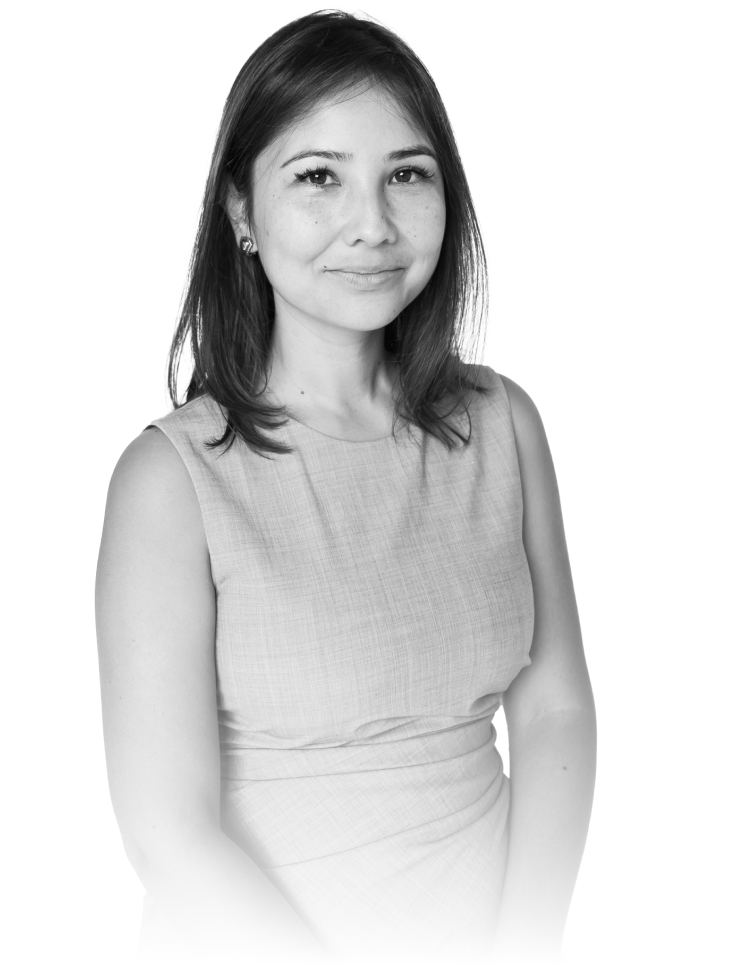
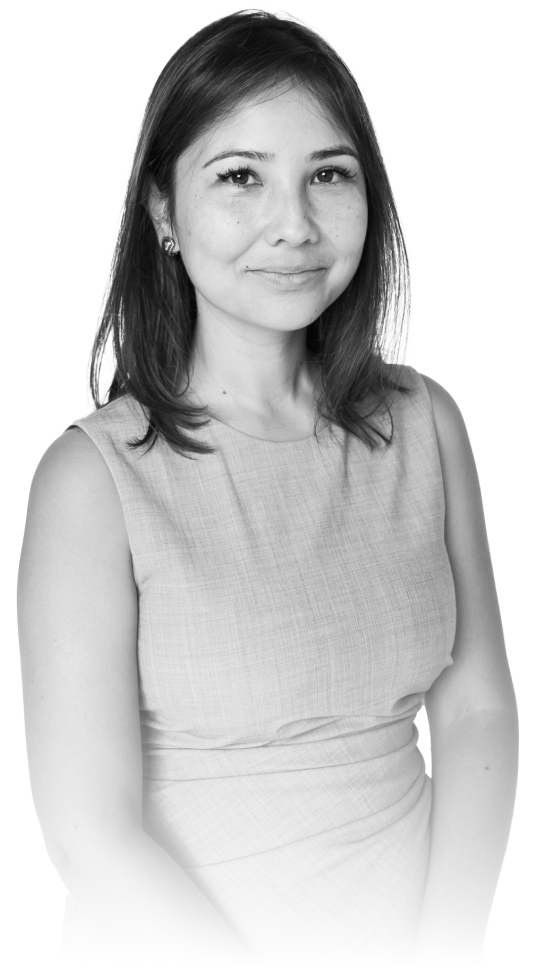
code-merge-milad

Changed region(s): [[0.0307, 0.0, 0.953, 0.9231], [0.3382, 0.8615, 0.3689, 0.8923]]

diff --git a/Bio.html b/Bio.html
@@ -9,12 +9,15 @@
         integrity="sha384-QWTKZyjpPEjISv5WaRU9OFeRpok6YctnYmDr5pNlyT2bRjXh0JMhjY6hW+ALEwIH" crossorigin="anonymous" />
     <link rel="stylesheet" href="./assets/scss/bio.css" />
     <link rel="stylesheet" href="./assets/scss/root.css" />
+    <link rel="stylesheet" href="./assets/scss/milad.css" />
+    <link rel="stylesheet" href="./assets/scss/style.css" />
+    <link rel="stylesheet" href="/assets/scss/slider.css" />
     <title>footer</title>
 </head>
 
 <body>
     <section class="bg-black">
-        <div class="container main-container p-0">
+        <div class="container main-container ps-0 pe-0">
             <div class="row m-0 p-0">
                 <div class="col-lg-2">
                     <div class="row m-0 position-relative p-0">
@@ -137,8 +140,8 @@
                                     </p>
                                 </div>
                             </div>
-                            <div class="col-xl-7 col-sm-6 d-sm-none d-block">
-                                <div class="col-sm-12 col-10 ms-md-0 ms-auto justify-content-end d-flex d-xl-none ">
+                            <div class="col-xl-7 col-sm-6 d-sm-none d-block pe-0">
+                                <div class="col-sm-12 col-10 ms-md-0 ms-auto justify-content-end d-flex d-xl-none pe-0">
                                     <img src="./assets/images/bio/co-founder-1.png" class="w-100" />
                                 </div>
                             </div>
@@ -153,14 +156,14 @@
     </section>
     <section class=" mt-sm-5">
         <div class="container main-container p-0">
-            <div class="row m-0 p-0 position-relative">
-                <div class="d-none d-xl-block col-xl-6">
+            <div class="row m-0 p-0 position-relative justify-content-between">
+                <div class="d-none d-sm-block col-sm-7 col-lg-5">
                     <img src="./assets/images/bio/co-founder-2.png" class="w-100 position-sticky top-0 end-0" />
                 </div>
-                <div class=" col-xl-6">
+                <div class=" col-sm-5 col-lg-6">
                     <div
                         class="content py-sm-5 pb-3 subject d-flex flex-column justify-content-center align-items-center justify-content-xl-start align-items-xl-start">
-                        <div class="row m-0 p-0 position-relative">
+                        <div class="row m-0 p-sm-0 pt-5 position-relative">
                             <h2 class="letter-0-3 text-black mb-0 fw-bold mt-3 line-height-h2 fs_5xl">
                                 Cheryl<br />
                                 Friedlander
@@ -208,62 +211,253 @@
                                 </a>
                             </div>
                         </div>
-                        <div class="d-block d-xl-none col-12 col-md-8 col-xl-7">
+                        <div class="d-block d-sm-none col-8 col-md-8 col-xl-7">
                             <img src="./assets/images/bio/co-founder-2.png" class="w-100 " />
                         </div>
-                        <div class="px-sm-0 text-start max_pra_content_Two text-justify">
-                            <p class="font-500 text-black letter-01 fs_sm text_normal font-opacity mt-4">
-                                For over a decade, Cheryl has represented a wide variety of clients in transactional
-                                matters, from individuals and small
-                                businesses to domestic and multi-national billion-dollar companies, start-ups, tech
-                                companies, lenders, and real estate
-                                developers of all sizes. She has extensive corporate structuring experience and assists
-                                her clients at every stage of
-                                the process, on both the business and legal fronts. Cheryl has also served as general
-                                counsel to several New York City
-                                real estate developers, assisting them in identifying potential investments, obtaining
-                                lending (including finding
-                                creative financing solutions), reviewing and preparing all the necessary documents, and
-                                providing advice on an on-going
-                                basis. She prides herself on providing responsive, prompt, and real-time counseling
-                                throughout the deal process to bring
-                                each transaction to a successful close.
+                        <div class="overflow-y-auto">
+                            <div class="px-sm-0 text-start max_pra_content_Two text-justify news_para_max_height">
+                                <p class="font-500 text-black letter-01 fs_sm text_normal font-opacity mt-4">
+                                    For over a decade, Cheryl has represented a wide variety of clients in transactional
+                                    matters, from individuals and small
+                                    businesses to domestic and multi-national billion-dollar companies, start-ups, tech
+                                    companies, lenders, and real estate
+                                    developers of all sizes. She has extensive corporate structuring experience and
+                                    assists
+                                    her clients at every stage of
+                                    the process, on both the business and legal fronts. Cheryl has also served as
+                                    general
+                                    counsel to several New York City
+                                    real estate developers, assisting them in identifying potential investments,
+                                    obtaining
+                                    lending (including finding
+                                    creative financing solutions), reviewing and preparing all the necessary documents,
+                                    and
+                                    providing advice on an on-going
+                                    basis. She prides herself on providing responsive, prompt, and real-time counseling
+                                    throughout the deal process to bring
+                                    each transaction to a successful close.
 
-                            </p>
-                            <p class="font-500 text-black letter-01 fs_sm font-opacity mt-4 text_normal">
-                                Cheryl has worked and trained with top-tier transactional attorneys in New York City and
-                                has experience drafting and
-                                negotiating the simplest to most complex agreements, including contracts of sale,
-                                leases, joint venture agreements,
-                                partnership agreements, operating agreements, asset/stock/ membership interest purchase
-                                agreements, license agreements,
-                                employment agreements and private placement offerings. Cheryl has also closed commercial
-                                transactions all over the
-                                country and hundreds of residential transactions throughout the Hudson Valley and New
-                                York City metropolitan area,
-                                including single-family homes, co-operatives, and condominiums.
+                                </p>
+                                <p class="font-500 text-black letter-01 fs_sm font-opacity mt-4 text_normal">
+                                    Cheryl has worked and trained with top-tier transactional attorneys in New York City
+                                    and
+                                    has experience drafting and
+                                    negotiating the simplest to most complex agreements, including contracts of sale,
+                                    leases, joint venture agreements,
+                                    partnership agreements, operating agreements, asset/stock/ membership interest
+                                    purchase
+                                    agreements, license agreements,
+                                    employment agreements and private placement offerings. Cheryl has also closed
+                                    commercial
+                                    transactions all over the
+                                    country and hundreds of residential transactions throughout the Hudson Valley and
+                                    New
+                                    York City metropolitan area,
+                                    including single-family homes, co-operatives, and condominiums.
 
-                            </p>
-                            <p class="font-500 text-black letter-01 fs_sm font-opacity mt-4 text_normal">
-                                Prior to starting Boddoohi & Friedlander, Cheryl worked at an elite New York City
-                                boutique transactional firm and before
-                                that, a local real estate firm in Rockland County. She is licensed to practice in New
-                                York.
+                                </p>
+                                <p class="font-500 text-black letter-01 fs_sm font-opacity mt-4 text_normal">
+                                    Prior to starting Boddoohi & Friedlander, Cheryl worked at an elite New York City
+                                    boutique transactional firm and before
+                                    that, a local real estate firm in Rockland County. She is licensed to practice in
+                                    New
+                                    York.
 
-                            </p>
-                            <p class="font-500 text-black letter-01 fs_sm font-opacity mt-4 mb-5 text_normal">
-                                Cheryl received her law degree from the University of Miami School of Law in 2010 and
-                                her undergraduate degree in
-                                financial accounting from North Carolina State University in 2007, graduating magna cum
-                                laude.
+                                </p>
+                                <p class="font-500 text-black letter-01 fs_sm font-opacity mt-4 mb-5 text_normal">
+                                    Cheryl received her law degree from the University of Miami School of Law in 2010
+                                    and
+                                    her undergraduate degree in
+                                    financial accounting from North Carolina State University in 2007, graduating magna
+                                    cum
+                                    laude.
 
-                            </p>
+                                </p>
+                            </div>
                         </div>
                     </div>
                 </div>
             </div>
         </div>
     </section>
+    <!-- anything section  -->
+    <div class="bg-black anything_section position-relative">
+        <div class="anything_container mx-auto py-5 px-lg-0 px-4">
+            <div class="row py-4 my-3 align-items-center">
+                <div class="col-md-6">
+                    <div data-aos="fade-down" data-aos-duration="1000">
+                        <h3 class="letter_0-3 text-white fw-bold lh_100 fs_2xl mb-0 anything_heading">
+                            Anything you need, we are here.
+                        </h3>
+                        <p class="text-white anything_second_para opacity_07 fw-normal lh_100 fs_sm mt-4">
+                            Please reach out to us via phone, email, text, or the form here
+                            if you have any questions for us.
+                        </p>
+                        <div class="my-3">
+                            <p class="text-white fs_sm lh_100 fw-normal mb-3">
+                                Boddoohi &amp; Friedlander LLP
+                            </p>
+                            <a href="https://goo.gl/maps/MhVbDPtmKzWAweFJ6" target="_blank" rel="noopener noreferrer"
+                                class="text-white fs_sm fw-normal anything_link_text_hover transition_03">
+                                <span class="d-block"> New York City Office:</span>
+                                <span class="d-block"> 110 East 25th Street</span>
+                                <span class="d-block"> New York, New York 10010</span>
+                            </a>
+                            <a href="https://maps.app.goo.gl/YNKQEtyfB5RiSHks6" target="_blank"
+                                rel="noopener noreferrer"
+                                class="text-white fs_sm fw-normal mt-3 d-block anything_link_text_hover transition_03">
+                                <span class="d-block"> Hudson Valley Office:</span>
+                                <span class="d-block"> 291 Wall Street, 4th Floor</span>
+                                <span class="d-block"> Kingston, New York 12401</span>
+                            </a>
+                        </div>
+                        <p
+                            class="text-white fs_sm fw-normal mb-0 fw-normal lh_160 anything_link_text_hover transition_03">
+                            Call or Text Us:
+                        </p>
+                        <a href="tel:+(347) 252 9922">
+                            <p
+                                class="text-white fs_sm fw-normal mb-0 fw-normal lh_160 anything_link_text_hover transition_03">
+                                (347) 252 9922
+                            </p>
+                        </a>
+                        <a href="mailto:hello@thebflawfirm.com">
+                            <p class="text-white fw-normal lh_160 fs_sm mb-0 anything_link_text_hover transition_03">
+                                hello@thebflawfirm.com
+                            </p>
+                        </a>
+                    </div>
+                </div>
+                <div class="col-md-6">
+                    <form onsubmit="handleSubmit(event)" class="pt-md-0 pt-5">
+                        <div class="w-100">
+                            <input type="text" required="" class="contact_form" id="contact-form-name"
+                                placeholder="Your Name" />
+                        </div>
+                        <div class="mt-3 pt-1">
+                            <input type="email" required="" class="contact_form" id="contact-form-email"
+                                placeholder="Email" />
+                        </div>
+                        <div class="mt-3 pt-1">
+                            <input type="number" class="contact_form" required="" id="contact-form-number"
+                                placeholder="Phone Number" />
+                        </div>
+                        <div class="mt-3 pt-1">
+                            <textarea class="contact_form" required="" placeholder="How can we help?"
+                                id="contact-form-message" rows="3"></textarea>
+                        </div>
+                        <div class="mt-3 pt-1">
+                            <button type="submit" class="w-100 contact_form_btn" id="send-message-btn">
+                                Submit message
+                            </button>
+                        </div>
+                    </form>
+                </div>
+            </div>
+        </div>
+    </div>
+    <!-- footer section  -->
+    <footer class="bg-black">
+        <div class="row position-relative max_w_1440" data-aos="fade-down" data-aos-duration="1000">
+            <div class="image_col p-sm-0">
+                <img src="./assets/images/icons/footer-img.svg" alt="footer image"
+                    class="d-sm-block d-none pointer_event_none" />
+            </div>
+            <div class="footer_link_col mt-sm-5 pb-sm-0 pb-5 padding_xl_footer_col">
+                <div class="mt-sm-5 pt-sm-5">
+                    <div class="d-flex justify-content-center justify-content-md-start">
+                        <div>
+                            <a href="#"><img class="footer_logo" src="./assets/images/icons/logo.svg" alt="logo" /></a>
+                            <div class="social_icons_margin d-flex d-md-none justify-content-center mt-md-0 mt-4">
+                                <a class="pe-3" href="https://www.facebook.com/thebflawfirm" target="_blank"
+                                    rel="noopener noreferrer">
+                                    <svg class="" width="24" height="24" viewBox="0 0 24 24" fill="none"
+                                        xmlns="http://www.w3.org/2000/svg">
+                                        <path
+                                            d="M24 12C24 5.37258 18.6274 0 12 0C5.37258 0 0 5.37258 0 12C0 17.9895 4.3882 22.954 10.125 23.8542V15.4688H7.07812V12H10.125V9.35625C10.125 6.34875 11.9166 4.6875 14.6576 4.6875C15.9701 4.6875 17.3438 4.92188 17.3438 4.92188V7.875H15.8306C14.34 7.875 13.875 8.80008 13.875 9.75V12H17.2031L16.6711 15.4688H13.875V23.8542C19.6118 22.954 24 17.9895 24 12Z"
+                                            fill="#FE6A5B"></path>
+                                    </svg>
+                                </a>
+
+                                <a href="https://www.instagram.com/thebflawfirm/" target="_blank"
+                                    rel="noopener noreferrer">
+                                    <svg width="24" height="24" viewBox="0 0 24 24" fill="none"
+                                        xmlns="http://www.w3.org/2000/svg">
+                                        <path class="transition_03s"
+                                            d="M12 2.16094C15.2063 2.16094 15.5859 2.175 16.8469 2.23125C18.0188 2.28281 18.6516 2.47969 19.0734 2.64375C19.6313 2.85938 20.0344 3.12188 20.4516 3.53906C20.8734 3.96094 21.1313 4.35938 21.3469 4.91719C21.5109 5.33906 21.7078 5.97656 21.7594 7.14375C21.8156 8.40937 21.8297 8.78906 21.8297 11.9906C21.8297 15.1969 21.8156 15.5766 21.7594 16.8375C21.7078 18.0094 21.5109 18.6422 21.3469 19.0641C21.1313 19.6219 20.8687 20.025 20.4516 20.4422C20.0297 20.8641 19.6313 21.1219 19.0734 21.3375C18.6516 21.5016 18.0141 21.6984 16.8469 21.75C15.5813 21.8062 15.2016 21.8203 12 21.8203C8.79375 21.8203 8.41406 21.8062 7.15313 21.75C5.98125 21.6984 5.34844 21.5016 4.92656 21.3375C4.36875 21.1219 3.96563 20.8594 3.54844 20.4422C3.12656 20.0203 2.86875 19.6219 2.65313 19.0641C2.48906 18.6422 2.29219 18.0047 2.24063 16.8375C2.18438 15.5719 2.17031 15.1922 2.17031 11.9906C2.17031 8.78438 2.18438 8.40469 2.24063 7.14375C2.29219 5.97187 2.48906 5.33906 2.65313 4.91719C2.86875 4.35938 3.13125 3.95625 3.54844 3.53906C3.97031 3.11719 4.36875 2.85938 4.92656 2.64375C5.34844 2.47969 5.98594 2.28281 7.15313 2.23125C8.41406 2.175 8.79375 2.16094 12 2.16094ZM12 0C8.74219 0 8.33438 0.0140625 7.05469 0.0703125C5.77969 0.126563 4.90313 0.332812 4.14375 0.628125C3.35156 0.9375 2.68125 1.34531 2.01563 2.01562C1.34531 2.68125 0.9375 3.35156 0.628125 4.13906C0.332812 4.90313 0.126563 5.775 0.0703125 7.05C0.0140625 8.33437 0 8.74219 0 12C0 15.2578 0.0140625 15.6656 0.0703125 16.9453C0.126563 18.2203 0.332812 19.0969 0.628125 19.8563C0.9375 20.6484 1.34531 21.3188 2.01563 21.9844C2.68125 22.65 3.35156 23.0625 4.13906 23.3672C4.90313 23.6625 5.775 23.8687 7.05 23.925C8.32969 23.9812 8.7375 23.9953 11.9953 23.9953C15.2531 23.9953 15.6609 23.9812 16.9406 23.925C18.2156 23.8687 19.0922 23.6625 19.8516 23.3672C20.6391 23.0625 21.3094 22.65 21.975 21.9844C22.6406 21.3188 23.0531 20.6484 23.3578 19.8609C23.6531 19.0969 23.8594 18.225 23.9156 16.95C23.9719 15.6703 23.9859 15.2625 23.9859 12.0047C23.9859 8.74688 23.9719 8.33906 23.9156 7.05938C23.8594 5.78438 23.6531 4.90781 23.3578 4.14844C23.0625 3.35156 22.6547 2.68125 21.9844 2.01562C21.3188 1.35 20.6484 0.9375 19.8609 0.632812C19.0969 0.3375 18.225 0.13125 16.95 0.075C15.6656 0.0140625 15.2578 0 12 0Z"
+                                            fill="#FE6A5B"></path>
+                                        <path
+                                            d="M12 5.83594C8.59688 5.83594 5.83594 8.59688 5.83594 12C5.83594 15.4031 8.59688 18.1641 12 18.1641C15.4031 18.1641 18.1641 15.4031 18.1641 12C18.1641 8.59688 15.4031 5.83594 12 5.83594ZM12 15.9984C9.79219 15.9984 8.00156 14.2078 8.00156 12C8.00156 9.79219 9.79219 8.00156 12 8.00156C14.2078 8.00156 15.9984 9.79219 15.9984 12C15.9984 14.2078 14.2078 15.9984 12 15.9984Z"
+                                            fill="#FE6A5B"></path>
+                                        <path
+                                            d="M19.8469 5.59238C19.8469 6.38926 19.2 7.03145 18.4078 7.03145C17.6109 7.03145 16.9688 6.38457 16.9688 5.59238C16.9688 4.79551 17.6156 4.15332 18.4078 4.15332C19.2 4.15332 19.8469 4.8002 19.8469 5.59238Z"
+                                            fill="#FE6A5B"></path>
+                                    </svg>
+                                </a>
+                            </div>
+                        </div>
+                    </div>
+                    <hr class="footer_gray_hr bg-white w-100 my-4 mt-md-5" />
+                    <div class="d-flex mt-2 item-center justify-content-center justify-content-md-start">
+                        <div
+                            class="d-flex flex-sm-row flex-column justify-content-center justify-content-sm-start align-items-center gap-sm-0 gap-2">
+                            <a class="fs_sm fw-semibold text-white footer_links_hover transition_03" href="#">Back to
+                                Top</a>
+                            <a href="#"
+                                class="ms-sm-5 fs_sm fw-semibold text-white footer_links_hover transition_03">Practice
+                                Areas</a>
+                            <a href="#"
+                                class="ms-sm-5 fs_sm fw-semibold text-white footer_links_hover transition_03">News</a>
+                            <a href="#"
+                                class="ms-sm-5 fs_sm fw-semibold text-white footer_links_hover transition_03">Team</a>
+                            <a href="#"
+                                class="ms-sm-5 fs_sm fw-semibold text-white footer_links_hover transition_03">Contact</a>
+                        </div>
+                        <div class="social_icons_margin d-md-flex d-none mt-sm-0 mt-4">
+                            <a class="pe-3" href="https://www.facebook.com/thebflawfirm" target="_blank"
+                                rel="noopener noreferrer">
+                                <svg class="" width="24" height="24" viewBox="0 0 24 24" fill="none"
+                                    xmlns="http://www.w3.org/2000/svg">
+                                    <path
+                                        d="M24 12C24 5.37258 18.6274 0 12 0C5.37258 0 0 5.37258 0 12C0 17.9895 4.3882 22.954 10.125 23.8542V15.4688H7.07812V12H10.125V9.35625C10.125 6.34875 11.9166 4.6875 14.6576 4.6875C15.9701 4.6875 17.3438 4.92188 17.3438 4.92188V7.875H15.8306C14.34 7.875 13.875 8.80008 13.875 9.75V12H17.2031L16.6711 15.4688H13.875V23.8542C19.6118 22.954 24 17.9895 24 12Z"
+                                        fill="#FE6A5B"></path>
+                                </svg>
+                            </a>
+
+                            <a href="https://www.instagram.com/thebflawfirm/" target="_blank" rel="noopener noreferrer">
+                                <svg width="24" height="24" viewBox="0 0 24 24" fill="none"
+                                    xmlns="http://www.w3.org/2000/svg">
+                                    <path class="transition_03s"
+                                        d="M12 2.16094C15.2063 2.16094 15.5859 2.175 16.8469 2.23125C18.0188 2.28281 18.6516 2.47969 19.0734 2.64375C19.6313 2.85938 20.0344 3.12188 20.4516 3.53906C20.8734 3.96094 21.1313 4.35938 21.3469 4.91719C21.5109 5.33906 21.7078 5.97656 21.7594 7.14375C21.8156 8.40937 21.8297 8.78906 21.8297 11.9906C21.8297 15.1969 21.8156 15.5766 21.7594 16.8375C21.7078 18.0094 21.5109 18.6422 21.3469 19.0641C21.1313 19.6219 20.8687 20.025 20.4516 20.4422C20.0297 20.8641 19.6313 21.1219 19.0734 21.3375C18.6516 21.5016 18.0141 21.6984 16.8469 21.75C15.5813 21.8062 15.2016 21.8203 12 21.8203C8.79375 21.8203 8.41406 21.8062 7.15313 21.75C5.98125 21.6984 5.34844 21.5016 4.92656 21.3375C4.36875 21.1219 3.96563 20.8594 3.54844 20.4422C3.12656 20.0203 2.86875 19.6219 2.65313 19.0641C2.48906 18.6422 2.29219 18.0047 2.24063 16.8375C2.18438 15.5719 2.17031 15.1922 2.17031 11.9906C2.17031 8.78438 2.18438 8.40469 2.24063 7.14375C2.29219 5.97187 2.48906 5.33906 2.65313 4.91719C2.86875 4.35938 3.13125 3.95625 3.54844 3.53906C3.97031 3.11719 4.36875 2.85938 4.92656 2.64375C5.34844 2.47969 5.98594 2.28281 7.15313 2.23125C8.41406 2.175 8.79375 2.16094 12 2.16094ZM12 0C8.74219 0 8.33438 0.0140625 7.05469 0.0703125C5.77969 0.126563 4.90313 0.332812 4.14375 0.628125C3.35156 0.9375 2.68125 1.34531 2.01563 2.01562C1.34531 2.68125 0.9375 3.35156 0.628125 4.13906C0.332812 4.90313 0.126563 5.775 0.0703125 7.05C0.0140625 8.33437 0 8.74219 0 12C0 15.2578 0.0140625 15.6656 0.0703125 16.9453C0.126563 18.2203 0.332812 19.0969 0.628125 19.8563C0.9375 20.6484 1.34531 21.3188 2.01563 21.9844C2.68125 22.65 3.35156 23.0625 4.13906 23.3672C4.90313 23.6625 5.775 23.8687 7.05 23.925C8.32969 23.9812 8.7375 23.9953 11.9953 23.9953C15.2531 23.9953 15.6609 23.9812 16.9406 23.925C18.2156 23.8687 19.0922 23.6625 19.8516 23.3672C20.6391 23.0625 21.3094 22.65 21.975 21.9844C22.6406 21.3188 23.0531 20.6484 23.3578 19.8609C23.6531 19.0969 23.8594 18.225 23.9156 16.95C23.9719 15.6703 23.9859 15.2625 23.9859 12.0047C23.9859 8.74688 23.9719 8.33906 23.9156 7.05938C23.8594 5.78438 23.6531 4.90781 23.3578 4.14844C23.0625 3.35156 22.6547 2.68125 21.9844 2.01562C21.3188 1.35 20.6484 0.9375 19.8609 0.632812C19.0969 0.3375 18.225 0.13125 16.95 0.075C15.6656 0.0140625 15.2578 0 12 0Z"
+                                        fill="#FE6A5B"></path>
+                                    <path
+                                        d="M12 5.83594C8.59688 5.83594 5.83594 8.59688 5.83594 12C5.83594 15.4031 8.59688 18.1641 12 18.1641C15.4031 18.1641 18.1641 15.4031 18.1641 12C18.1641 8.59688 15.4031 5.83594 12 5.83594ZM12 15.9984C9.79219 15.9984 8.00156 14.2078 8.00156 12C8.00156 9.79219 9.79219 8.00156 12 8.00156C14.2078 8.00156 15.9984 9.79219 15.9984 12C15.9984 14.2078 14.2078 15.9984 12 15.9984Z"
+                                        fill="#FE6A5B"></path>
+                                    <path
+                                        d="M19.8469 5.59238C19.8469 6.38926 19.2 7.03145 18.4078 7.03145C17.6109 7.03145 16.9688 6.38457 16.9688 5.59238C16.9688 4.79551 17.6156 4.15332 18.4078 4.15332C19.2 4.15332 19.8469 4.8002 19.8469 5.59238Z"
+                                        fill="#FE6A5B"></path>
+                                </svg>
+                            </a>
+                        </div>
+                    </div>
+                    <div
+                        class="d-flex flex-md-row flex-column justify-content-center justify-content-sm-start mt-sm-2 mt-4 pt-3 pt-sm-0 item-center pb-2">
+                        <p class="opacity_05 text-white text-md-start text-center fw-normal fs_xsm lh_100 mb-0">
+                            © Boddoohi &amp; Friedlander LLP 2022.
+                        </p>
+                        <p class="opacity_05 text-white text-md-start text-center my-md-0 my-2 fw-normal fs_xsm lh_100">
+                            All rights reserved.
+                        </p>
+                        <p
+                            class="opacity_05 text-white text-md-start text-center fw-normal fs_xsm lh_100 mb-0 text-center">
+                            &nbsp;Attorney Advertising: Prior results do not guarantee a
+                            similar outcome.
+                        </p>
+                    </div>
+                </div>
+            </div>
+        </div>
+    </footer>
     <script src="https://cdn.jsdelivr.net/npm/bootstrap@5.3.3/dist/js/bootstrap.bundle.min.js"
         integrity="sha384-YvpcrYf0tY3lHB60NNkmXc5s9fDVZLESaAA55NDzOxhy9GkcIdslK1eN7N6jIeHz"
         crossorigin="anonymous"></script>

diff --git a/assets/scss/root.css b/assets/scss/root.css
@@ -1,1 +1,1 @@
-@import"https://fonts.googleapis.com/css2?family=Roboto:ital,wght@0,100;0,300;0,400;0,500;0,700;0,900;1,100;1,300;1,400;1,500;1,700;1,900&display=swap";body,html{font-family:"Roboto",sans-serif !important}:root{--fs-xsm: 13px;--fs-sm: 16px;--fs-md: 21px;--fs-lg: 27px;--fs-xl: 28px;--fs-2xl: 40px;--fs-5xl: 96px;--fs-8xl: 144px;--bittersweet: #fe6a5b;--fw-800: 800}.fs_xsm{font-size:var(--fs-xsm)}.fs_sm{font-size:var(--fs-sm)}.fs_md{font-size:var(--fs-md)}.fs_lg{font-size:var(--fs-lg)}.fs_xl{font-size:var(--fs-xl)}.fs_2xl{font-size:var(--fs-2xl)}.fs_5xl{font-size:var(--fs-5xl)}.fs_8xl{font-size:var(--fs-8xl)}.fw_800{font-weight:var(--fw-800)}.color_bittersweet{color:var(--bittersweet)}.bg_bittersweet{background-color:var(--bittersweet)}@media(max-width: 1199.98px){:root{--fs-xsm: 13px;--fs-sm: 16px;--fs-md: 21px;--fs-lg: 27px;--fs-xl: 28px;--fs-2xl: 40px;--fs-5xl: 80px;--fs-8xl: 100px}}@media(max-width: 1023.98px){:root{--fs-xsm: 13px;--fs-sm: 16px;--fs-md: 21px;--fs-lg: 20px;--fs-xl: 28px;--fs-2xl: 32px;--fs-5xl: 68px;--fs-8xl: 100px}}@media(max-width: 991.98px){:root{--fs-xsm: 13px;--fs-sm: 16px;--fs-md: 18px;--fs-lg: 20px;--fs-xl: 28px;--fs-2xl: 32px;--fs-5xl: 60px;--fs-8xl: 80px}}@media(max-width: 767.98px){:root{--fs-xsm: 13px;--fs-sm: 16px;--fs-md: 18px;--fs-lg: 20px;--fs-xl: 28px;--fs-2xl: 25px;--fs-5xl: 48px;--fs-8xl: 80px}}@media(max-width: 575.9px){:root{--fs-xsm: 13px;--fs-sm: 14px;--fs-md: 18px;--fs-lg: 20px;--fs-xl: 28px;--fs-2xl: 26px;--fs-5xl: 36px;--fs-8xl: 40px}}
+@import"https://fonts.googleapis.com/css2?family=Roboto:ital,wght@0,100;0,300;0,400;0,500;0,700;0,900;1,100;1,300;1,400;1,500;1,700;1,900&display=swap";body,html{font-family:"Roboto",sans-serif !important}:root{--fs-xsm: 13px;--fs-sm: 16px;--fs-md: 21px;--fs-lg: 27px;--fs-xl: 28px;--fs-2xl: 40px;--fs-5xl: 96px;--fs-8xl: 144px;--bittersweet: #fe6a5b;--fw-800: 800}.fs_xsm{font-size:var(--fs-xsm)}.fs_sm{font-size:var(--fs-sm)}.fs_md{font-size:var(--fs-md)}.fs_lg{font-size:var(--fs-lg)}.fs_xl{font-size:var(--fs-xl)}.fs_2xl{font-size:var(--fs-2xl)}.fs_5xl{font-size:var(--fs-5xl)}.fs_8xl{font-size:var(--fs-8xl)}.fw_800{font-weight:var(--fw-800)}.color_bittersweet{color:var(--bittersweet)}.bg_bittersweet{background-color:var(--bittersweet)}@media(max-width: 1199.98px){:root{--fs-xsm: 13px;--fs-sm: 16px;--fs-md: 21px;--fs-lg: 27px;--fs-xl: 28px;--fs-2xl: 40px;--fs-5xl: 80px;--fs-8xl: 100px}}@media(max-width: 1023.98px){:root{--fs-xsm: 13px;--fs-sm: 16px;--fs-md: 21px;--fs-lg: 20px;--fs-xl: 28px;--fs-2xl: 32px;--fs-5xl: 68px;--fs-8xl: 100px}}@media(max-width: 991.98px){:root{--fs-xsm: 13px;--fs-sm: 16px;--fs-md: 18px;--fs-lg: 20px;--fs-xl: 28px;--fs-2xl: 32px;--fs-5xl: 60px;--fs-8xl: 80px}}@media(max-width: 767.98px){:root{--fs-xsm: 13px;--fs-sm: 16px;--fs-md: 18px;--fs-lg: 20px;--fs-xl: 28px;--fs-2xl: 22px;--fs-5xl: 40px;--fs-8xl: 80px}}@media(max-width: 575.9px){:root{--fs-xsm: 13px;--fs-sm: 14px;--fs-md: 18px;--fs-lg: 20px;--fs-xl: 28px;--fs-2xl: 26px;--fs-5xl: 36px;--fs-8xl: 40px}}

diff --git a/index.html b/index.html
@@ -34,9 +34,7 @@
     <link href="https://cdn.jsdelivr.net/npm/bootstrap@5.3.3/dist/css/bootstrap.min.css" rel="stylesheet"
         integrity="sha384-QWTKZyjpPEjISv5WaRU9OFeRpok6YctnYmDr5pNlyT2bRjXh0JMhjY6hW+ALEwIH" crossorigin="anonymous" />
     <!-- slider link  -->
-    <link href="
-https://cdn.jsdelivr.net/npm/slick-carousel@1.8.1/slick/slick.min.css
-" rel="stylesheet" />
+    <link href="https://cdn.jsdelivr.net/npm/slick-carousel@1.8.1/slick/slick.min.css" rel="stylesheet" />
     <!-- custum css links  -->
     <link rel="stylesheet" href="./assets/scss/milad.css" />
     <link rel="stylesheet" href="./assets/scss/root.css" />

diff --git a/assets/scss/root.scss b/assets/scss/root.scss
@@ -108,8 +108,8 @@ $background-color_2: var(--bittersweet);
     --fs-md: 18px;
     --fs-lg: 20px;
     --fs-xl: 28px;
-    --fs-2xl: 25px;
-    --fs-5xl: 48px;
+    --fs-2xl: 22px;
+    --fs-5xl: 40px;
     --fs-8xl: 80px;
   }
 }
